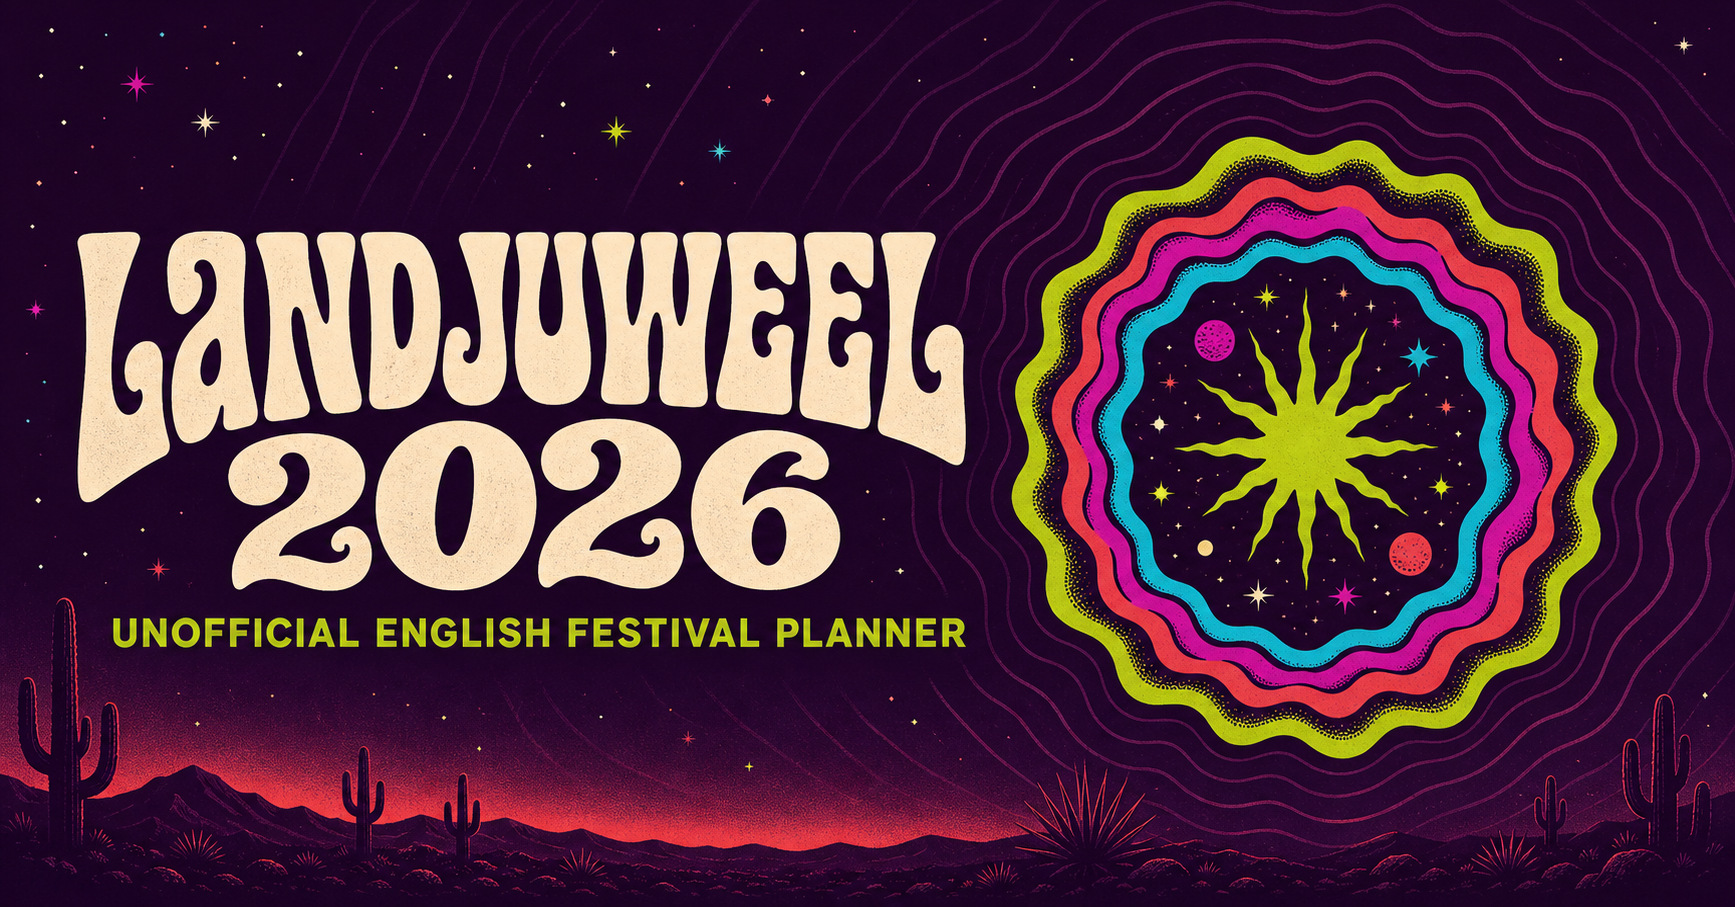
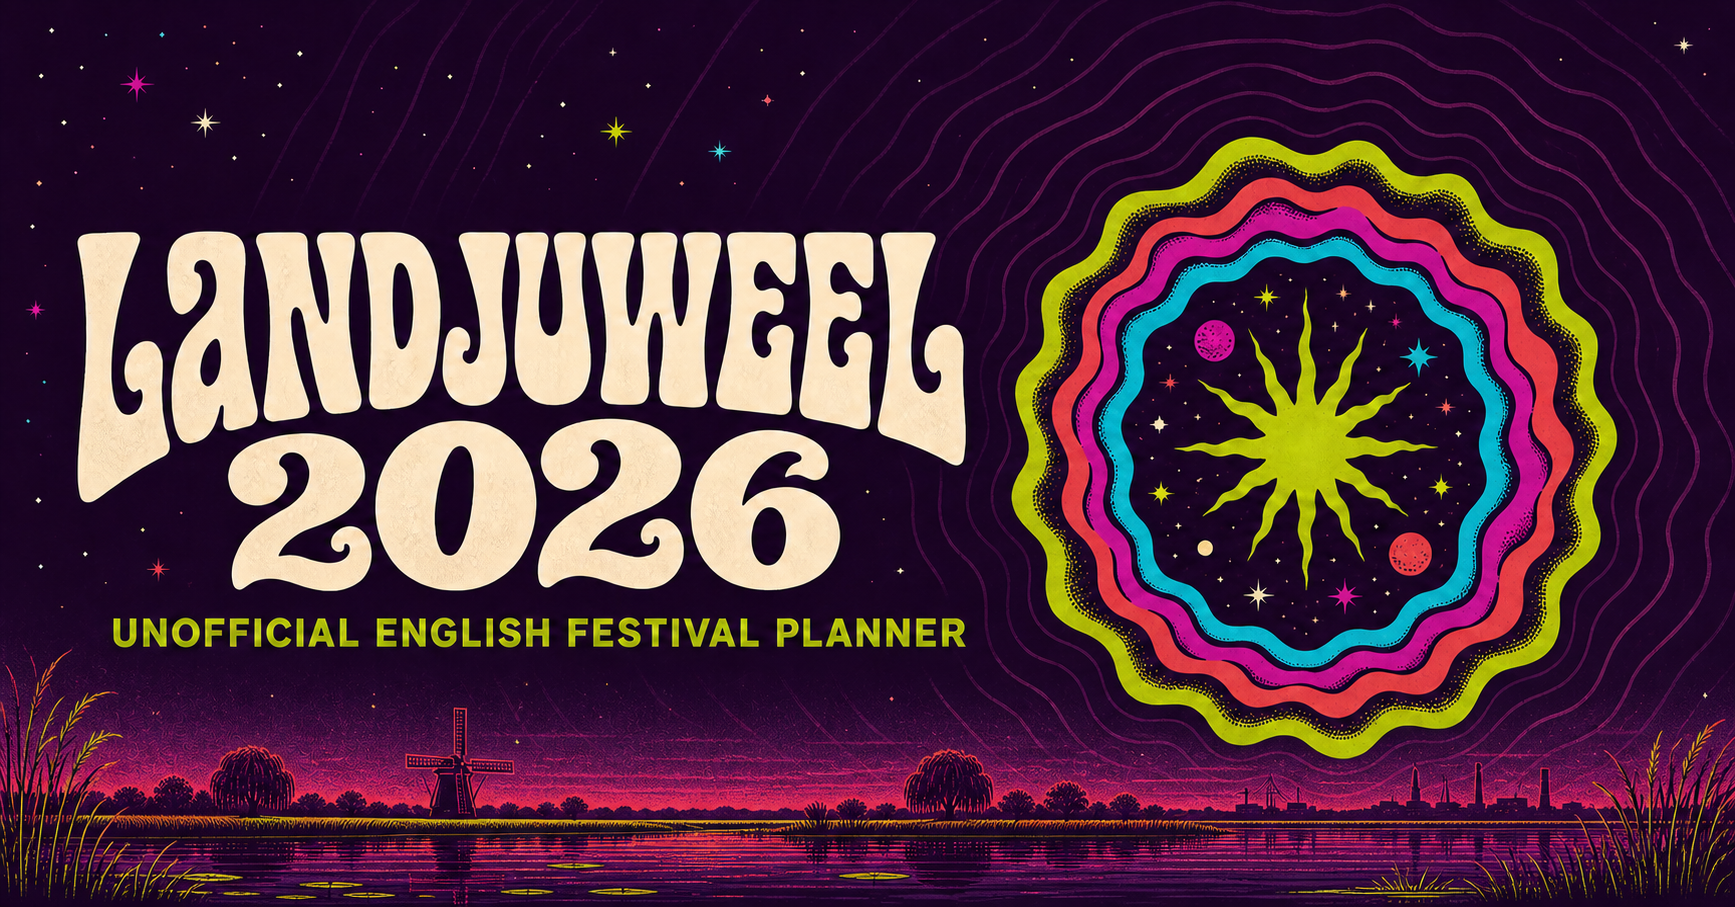
Update social card for Dutch lowlands

diff --git a/sw.js b/sw.js
@@ -1,3 +1,3 @@
-if(!self.define){let e,s={};const n=(n,i)=>(n=new URL(n+".js",i).href,s[n]||new Promise(s=>{if("document"in self){const e=document.createElement("script");e.src=n,e.onload=s,document.head.appendChild(e)}else e=n,importScripts(n),s()}).then(()=>{let e=s[n];if(!e)throw new Error(`Module ${n} didn’t register its module`);return e}));self.define=(i,r)=>{const l=e||("document"in self?document.currentScript.src:"")||location.href;if(s[l])return;let a={};const o=e=>n(e,l),t={module:{uri:l},exports:a,require:o};s[l]=Promise.all(i.map(e=>t[e]||o(e))).then(e=>(r(...e),a))}}define(["./workbox-835c8c05"],function(e){"use strict";self.skipWaiting(),e.clientsClaim(),e.precacheAndRoute([{url:"og.png",revision:"77e3afb08fdf9fd4a617ded3194dc70a"},{url:"index.html",revision:"6a914712e639a4d850f36776ca80754d"},{url:"icon-512.png",revision:"0ca59b860a9e6b6723fd93f69e84b28b"},{url:"icon-192.png",revision:"37251c3d13ea8f28b9e1c8c8f78e532d"},{url:"brand-logo.png",revision:"2b9ab5c354cc5ccb0d7a6b20d5d5de9a"},{url:"apple-touch-icon.png",revision:"7cf284e2ce7d7bf987c93febbfbb1fa7"},{url:"data/festival.json",revision:"49749eb49d42ac3fe9ddcdf311cfeddf"},{url:"assets/workbox-window.prod.es5-Bd17z0YL.js",revision:null},{url:"assets/shrikhand-latin-ext-400-normal-XWw2aAd9.woff",revision:null},{url:"assets/shrikhand-latin-ext-400-normal-7QjthHjq.woff2",revision:null},{url:"assets/shrikhand-latin-400-normal-PjOFgsiX.woff2",revision:null},{url:"assets/shrikhand-latin-400-normal-CDpcAN0A.woff",revision:null},{url:"assets/shrikhand-gujarati-400-normal-yYiOcJ74.woff",revision:null},{url:"assets/shrikhand-gujarati-400-normal-CTxA0mt4.woff2",revision:null},{url:"assets/manrope-vietnamese-wght-normal-usUDDRr7.woff2",revision:null},{url:"assets/manrope-latin-wght-normal-DHIcAJRg.woff2",revision:null},{url:"assets/manrope-latin-ext-wght-normal-Ch3YOpNY.woff2",revision:null},{url:"assets/manrope-greek-wght-normal-DL7QRZyv.woff2",revision:null},{url:"assets/manrope-cyrillic-wght-normal-Dvxsihut.woff2",revision:null},{url:"assets/index-ktSFUStW.css",revision:null},{url:"assets/index-PYxsRutA.js",revision:null},{url:"assets/stages/kaleido-faerie-forest.png",revision:null},{url:"assets/stages/dorpsplein-why-not-circus.png",revision:null},{url:"assets/stages/dorpsplein-podium-instrumentaal.png",revision:null},{url:"assets/stages/camping.png",revision:null},{url:"assets/maps/festival.png",revision:null},{url:"assets/maps/camping.png",revision:null},{url:"apple-touch-icon.png",revision:"7cf284e2ce7d7bf987c93febbfbb1fa7"},{url:"icon-192.png",revision:"37251c3d13ea8f28b9e1c8c8f78e532d"},{url:"icon-512.png",revision:"0ca59b860a9e6b6723fd93f69e84b28b"},{url:"manifest.webmanifest",revision:"278c91eaa8cf0d509a551a2c6a5402dd"}],{}),e.cleanupOutdatedCaches(),e.registerRoute(new e.NavigationRoute(e.createHandlerBoundToURL("index.html"))),e.registerRoute(({url:e})=>e.pathname.includes("/assets/artists/"),new e.CacheFirst({cacheName:"landjuweel-artist-images-v1",plugins:[new e.ExpirationPlugin({maxEntries:520,maxAgeSeconds:2592e3}),new e.CacheableResponsePlugin({statuses:[0,200]})]}),"GET"),e.registerRoute(({url:e})=>e.pathname.includes("/assets/stages/"),new e.CacheFirst({cacheName:"landjuweel-stage-images-v1",plugins:[new e.ExpirationPlugin({maxEntries:80,maxAgeSeconds:2592e3})]}),"GET")});
+if(!self.define){let e,s={};const n=(n,i)=>(n=new URL(n+".js",i).href,s[n]||new Promise(s=>{if("document"in self){const e=document.createElement("script");e.src=n,e.onload=s,document.head.appendChild(e)}else e=n,importScripts(n),s()}).then(()=>{let e=s[n];if(!e)throw new Error(`Module ${n} didn’t register its module`);return e}));self.define=(i,r)=>{const l=e||("document"in self?document.currentScript.src:"")||location.href;if(s[l])return;let a={};const o=e=>n(e,l),t={module:{uri:l},exports:a,require:o};s[l]=Promise.all(i.map(e=>t[e]||o(e))).then(e=>(r(...e),a))}}define(["./workbox-835c8c05"],function(e){"use strict";self.skipWaiting(),e.clientsClaim(),e.precacheAndRoute([{url:"og.png",revision:"5ba0192bee50797fd1b24ded15c54214"},{url:"index.html",revision:"6a914712e639a4d850f36776ca80754d"},{url:"icon-512.png",revision:"0ca59b860a9e6b6723fd93f69e84b28b"},{url:"icon-192.png",revision:"37251c3d13ea8f28b9e1c8c8f78e532d"},{url:"brand-logo.png",revision:"2b9ab5c354cc5ccb0d7a6b20d5d5de9a"},{url:"apple-touch-icon.png",revision:"7cf284e2ce7d7bf987c93febbfbb1fa7"},{url:"data/festival.json",revision:"49749eb49d42ac3fe9ddcdf311cfeddf"},{url:"assets/workbox-window.prod.es5-Bd17z0YL.js",revision:null},{url:"assets/shrikhand-latin-ext-400-normal-XWw2aAd9.woff",revision:null},{url:"assets/shrikhand-latin-ext-400-normal-7QjthHjq.woff2",revision:null},{url:"assets/shrikhand-latin-400-normal-PjOFgsiX.woff2",revision:null},{url:"assets/shrikhand-latin-400-normal-CDpcAN0A.woff",revision:null},{url:"assets/shrikhand-gujarati-400-normal-yYiOcJ74.woff",revision:null},{url:"assets/shrikhand-gujarati-400-normal-CTxA0mt4.woff2",revision:null},{url:"assets/manrope-vietnamese-wght-normal-usUDDRr7.woff2",revision:null},{url:"assets/manrope-latin-wght-normal-DHIcAJRg.woff2",revision:null},{url:"assets/manrope-latin-ext-wght-normal-Ch3YOpNY.woff2",revision:null},{url:"assets/manrope-greek-wght-normal-DL7QRZyv.woff2",revision:null},{url:"assets/manrope-cyrillic-wght-normal-Dvxsihut.woff2",revision:null},{url:"assets/index-ktSFUStW.css",revision:null},{url:"assets/index-PYxsRutA.js",revision:null},{url:"assets/stages/kaleido-faerie-forest.png",revision:null},{url:"assets/stages/dorpsplein-why-not-circus.png",revision:null},{url:"assets/stages/dorpsplein-podium-instrumentaal.png",revision:null},{url:"assets/stages/camping.png",revision:null},{url:"assets/maps/festival.png",revision:null},{url:"assets/maps/camping.png",revision:null},{url:"apple-touch-icon.png",revision:"7cf284e2ce7d7bf987c93febbfbb1fa7"},{url:"icon-192.png",revision:"37251c3d13ea8f28b9e1c8c8f78e532d"},{url:"icon-512.png",revision:"0ca59b860a9e6b6723fd93f69e84b28b"},{url:"manifest.webmanifest",revision:"278c91eaa8cf0d509a551a2c6a5402dd"}],{}),e.cleanupOutdatedCaches(),e.registerRoute(new e.NavigationRoute(e.createHandlerBoundToURL("index.html"))),e.registerRoute(({url:e})=>e.pathname.includes("/assets/artists/"),new e.CacheFirst({cacheName:"landjuweel-artist-images-v1",plugins:[new e.ExpirationPlugin({maxEntries:520,maxAgeSeconds:2592e3}),new e.CacheableResponsePlugin({statuses:[0,200]})]}),"GET"),e.registerRoute(({url:e})=>e.pathname.includes("/assets/stages/"),new e.CacheFirst({cacheName:"landjuweel-stage-images-v1",plugins:[new e.ExpirationPlugin({maxEntries:80,maxAgeSeconds:2592e3})]}),"GET")});
 //# sourceMappingURL=sw.js.map
 //# sourceMappingURL=sw.js.map